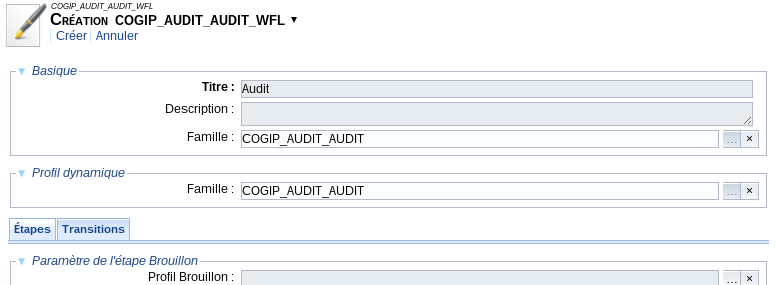
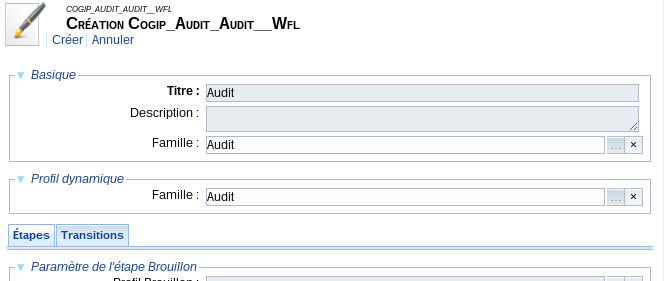
update cycle

Changed region(s): [[0.0, 0.2278, 0.994, 1.0], [0.0, 0.0, 0.4518, 0.1708]]

diff --git a/Contents/40-Cycle/20-structure.md b/Contents/40-Cycle/20-structure.md
@@ -62,9 +62,9 @@ le fichier `.csv` contiendra quelques éléments de paramétrage.
 Le fichier est initialisé avec les éléments suivants :
 
     [php]
-    namespace Cogip;
+    namespace COGIP;
     
-    class COGIP_AUDIT_AUDIT_WFL extends \Dcp\Family\WDoc
+    class COGIP_AUDIT_AUDIT__WFL extends \Dcp\Family\WDoc
     {
         public $attrPrefix = 'FIXME'; //FIXME: set attrPrefix
         public $firstState = 'FIXME'; //FIXME: set FirstState
@@ -208,9 +208,9 @@ Vous allez maintenant définir le premier état de votre cycle. Passez `$firstSt
 Vous avez terminé la déclaration de la structure. Le fichier doit donc contenir :
 
     [php]
-    namespace Cogip;
+    namespace COGIP;
     
-    class COGIP_AUDIT_AUDIT_WFL extends \Dcp\Family\WDoc
+    class COGIP_AUDIT_AUDIT__WFL extends \Dcp\Family\WDoc
     {
         public $attrPrefix = 'caaw';
         public $firstState = self::e_brouillon;
@@ -272,9 +272,10 @@ Les annotations ainsi ajoutée permettent à l'outil d'extraction d'identifier l
 
 En reprenant le fichier ci-dessus on obtient : 
 
-    namespace Cogip;
+    [php]
+    namespace COGIP;
     
-    class COGIP_AUDIT_AUDIT_WFL extends \Dcp\Family\WDoc
+    class COGIP_AUDIT_AUDIT__WFL extends \Dcp\Family\WDoc
     {
         public $attrPrefix = 'caaw';
         public $firstState = self::e_brouillon;
@@ -334,6 +335,8 @@ En reprenant le fichier ci-dessus on obtient :
     
     }
 
+Vous pouvez trouver les fichiers complets dans [les sources][tuto_source].
+
 Ouvrez la console dans le répertoire contenant les sources et :
 
     php <path_to_devtool>/devtool.phar extractPo -i .
@@ -341,12 +344,6 @@ Ouvrez la console dans le répertoire contenant les sources et :
 Les clefs suivantes sont ajoutées dans le fichier `locale/fr/LC_MESSAGES/src/COGIP_AUDIT.po`
 
     [gettext]
-    msgid "coa_planning"
-    msgstr "En planification"
-    
-    msgid "coa_writing"
-    msgstr "En rédaction"
-    
     msgid "coa_e1"
     msgstr "Brouillon"
     
@@ -362,6 +359,9 @@ Les clefs suivantes sont ajoutées dans le fichier `locale/fr/LC_MESSAGES/src/CO
     msgid "coa_e5"
     msgstr "Refusé"
     
+    msgid "coa_planning"
+    msgstr "En planification"
+    
     msgid "coa_t1"
     msgstr "Démarrer"
     
@@ -376,6 +376,9 @@ Les clefs suivantes sont ajoutées dans le fichier `locale/fr/LC_MESSAGES/src/CO
     
     msgid "coa_t5"
     msgstr "Refuser la certification"
+    
+    msgid "coa_writing"
+    msgstr "En rédaction"
 
 ## Inscription dans le paquet {#quickstart:3094c4a5-631d-491f-b5cb-4fa688c1bd09}
 
@@ -386,9 +389,9 @@ Ajoutez la ligne suivante dans le `info.xml` à l'installation et à la mise à 
 `<process command="./wsh.php --api=importDocuments --file=./COGIP_AUDIT/COGIP_AUDIT_AUDIT__PARAM.csv"/>`:
 
     [xml]
-    <process command="./wsh.php --api=importDocuments --file=./COGIP_AUDIT/COGIP_AUDIT_AUDIT__STRUCT.csv"/>
-    <process command="./wsh.php --api=importDocuments --file=./COGIP_AUDIT/COGIP_AUDIT_AUDIT__WFL.csv"/>
-    <process command="./wsh.php --api=importDocuments --file=./COGIP_AUDIT/COGIP_AUDIT_AUDIT__PARAM.csv"/>
+    <process command='./wsh.php --api=importDocuments --file=./COGIP_AUDIT/COGIP_AUDIT_AUDIT__STRUCT.csv --csv-separator=&apos;;&apos; '/>
+    <process command='./wsh.php --api=importDocuments --file=./COGIP_AUDIT/COGIP_AUDIT_AUDIT__WFL.csv --csv-separator=&apos;;&apos; '/>
+    <process command='./wsh.php --api=importDocuments --file=./COGIP_AUDIT/COGIP_AUDIT_AUDIT__PARAM.csv --csv-separator=&apos;;&apos; '/>
 
 ## Génération du document {#quickstart:c343a2f1-6ad0-4ad2-bbdb-bfed3ddd846c}
 
@@ -405,12 +408,12 @@ en haut dans la partie de droite, l'interface de création de documents s'ouvre 
 
 ![ Création workflow ](40-20-creation-wfl1.png "Création workflow")
 
-Sélectionnez ensuite votre cycle de vie dans la liste déroulante en haut `COGIP_AUDIT_AUDIT_WFL`.
+Sélectionnez ensuite votre cycle de vie dans la liste déroulante en haut `COGIP_AUDIT_AUDIT__WFL`.
 
 Complétez le formulaire présenté avec les éléments suivants :
 
 -   **Titre** : Audit,
--   **Famille** (Basique et Profil Dynamique) : `COGIP_AUDIT_AUDIT`.
+-   **Famille** (Basique et Profil Dynamique) : `Audit`.
 
 ![ Création workflow ](40-20-creation-wfl2.png "Création workflow")
 
@@ -424,7 +427,7 @@ Si vous cliquez sur `Voir le graphe`, vous pouvez consulter une représentation 
 
 #### Nom logique {#quickstart:0b81cb6c-c93b-4e48-a02c-e5bca4114c56}
 
-Ajoutez un nom logique au cycle de vie, cliquez sur `Autres > Propriétés` et ajoutez le nom `WDOC_COGIP_AUDIT_AUDIT_WFL`.
+Ajoutez un nom logique au cycle de vie, cliquez sur `Autres > Propriétés` et ajoutez le nom `WDOC_COGIP_AUDIT_AUDIT__WFL`.
 
 #### Export {#quickstart:bacf9a03-0af5-4b52-afb5-e7f22f04a064}
 
@@ -445,9 +448,11 @@ Pour finir, vous allez ajouter l'instruction qui associe le cycle de vie des aud
 Ajoutez une ligne juste avant le `END` les éléments suivant :
 
 -   colonne `A` : `WID`,
--   colonne `B` : `WDOC_COGIP_AUDIT_AUDIT_WFL`.
+-   colonne `B` : `WDOC_COGIP_AUDIT_AUDIT__WFL`.
 
 <span class="flag inline nota-bene"></span> L'instruction [WID est détaillée dans la documentation.][DocWID]
+
+Le fichier COGIP_AUDIT_AUDIT__PARAM complété est accessible dans [les sources][tuto_param_audit].
 
 ## Conclusion {#quickstart:c655d20b-7edd-4fb1-979f-4d3978ce52a3}
 
@@ -459,6 +464,7 @@ mais vous pouvez trouver les fichiers complet dans la solution du chapitre.
 
 ## Voir aussi {#quickstart:59b3f403-b656-4a8f-86b8-c368f64e08d8}
 
+-   [Les sources après ce chapitre][tuto_zip],
 -   [Documentation cycle de vie][DocCycleDeVie],
 -   [Transition][DocTransition],
 -   [Cycle][DocCycle],
@@ -472,3 +478,6 @@ mais vous pouvez trouver les fichiers complet dans la solution du chapitre.
 [DocCycle]: https://docs.anakeen.com/dynacase/3.2/dynacase-doc-core-reference/website/book/core-ref:b8824399-f17d-4007-adde-8a7433939273.html#core-ref:d5ddda0c-09d2-42b0-9543-0723e242ec09 "Documentation : cycle"
 [DocWID]: https://docs.anakeen.com/dynacase/3.2/dynacase-doc-core-reference/website/book/core-ref:cfc7f53b-7982-431e-a04b-7b54eddf4a75.html#core-ref:6f013eb8-33c7-11e2-be43-373b9514dea3 "Documentation : wid"
 [DocCycleDeVie]: https://docs.anakeen.com/dynacase/3.2/dynacase-doc-core-reference/website/book/core-ref:b8824399-f17d-4007-adde-8a7433939273.html#core-ref:d5ddda0c-09d2-42b0-9543-0723e242ec09 "Documentation : cycle de vie"
+[tuto_source]: https://github.com/Anakeen/dynacase-quick-start-code/tree/after-40-20/COGIP_AUDIT
+[tuto_zip]: https://github.com/Anakeen/dynacase-quick-start-code/archive/after-40-20.zip
+[tuto_param_audit]: https://github.com/Anakeen/dynacase-quick-start-code/blob/1.0-integration/COGIP_AUDIT/COGIP_AUDIT_AUDIT__PARAM.csv

diff --git a/Contents/40-Cycle/10-introduction.md b/Contents/40-Cycle/10-introduction.md
@@ -3,7 +3,7 @@
 Vous allez maintenant configurer les cycles de vie de votre application.
 
 Le cycle de de vie est un élément de Dynacase qui permet d'encadrer la vie d'un document via un ensemble d'étapes
-et de transition. À chaque étape, le développeur peut spécifier :
+et de transitions. À chaque étape, le développeur peut spécifier :
 
 -   la mise en forme du document (visibilités, formulaire de modification, consultation spécifiques, etc...),
 -   qui peut voir, modifier, supprimer le document,
